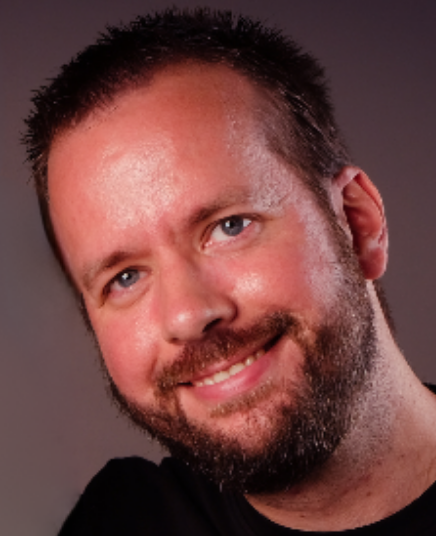
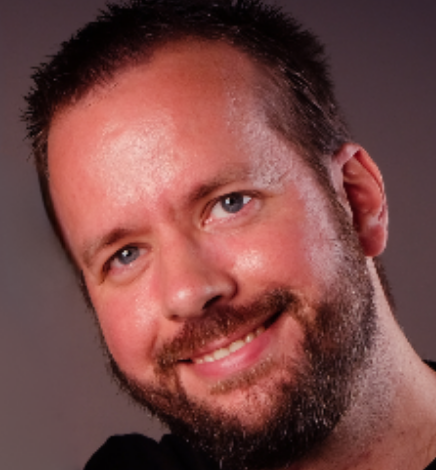
updates css

diff --git a/_sass/_resume.scss b/_sass/_resume.scss
@@ -25,7 +25,7 @@
     max-width: 100%;
     overflow: hidden;
     float: right;
-    @include border-radius(25px);
+    @include border-radius(10px);
     margin: 0 auto;
     display: block;
   }
@@ -136,7 +136,7 @@
     color: #fff;
   }
 
-  &.not-looking { width: 400px; }
+  &.not-looking { width: 350px; }
 }
 
 // resume content styles
